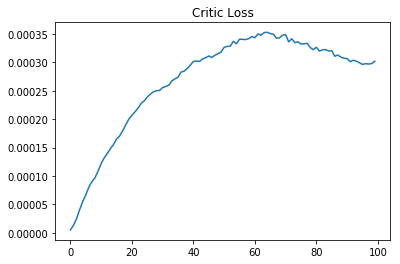
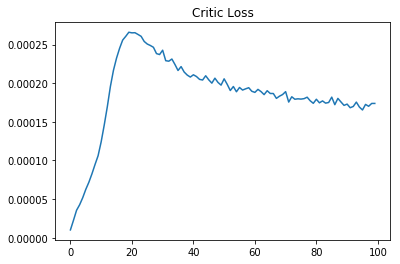
changed learning rate

diff --git a/report.md b/report.md
@@ -1,54 +1,50 @@
 # Implementation Details
-In general the code is an implementation of the [DDPG Paper](https://arxiv.org/pdf/1509.02971.pdf), but I made some minor adjustments to make it work in the reacher environment. 
-Take a look at **Section 3: Algorithm** and **Section 7: Experiment Details**. 
+In general the code is an implementation of the [DDPG Paper](https://arxiv.org/pdf/1509.02971.pdf), but I made some minor adjustments to make it work in the reacher environment.
+Take a look at **Section 3: Algorithm** and **Section 7: Experiment Details**.
 
 ## The Basic DDPG Algorithm
 ![DDPG Algorithm](ddpg-algorithm.png)
 
 ## Network Architecture
 I used the same network architecture, but used only 128 hidden units for both hidden layers in the actor and critic network.
-I reduced the number of hidden units, because 128 hidden units had enough capacity to solve the environment and the smaller the network, the faster it trains. 
-I tried batch normalization as stated in the paper, but I could not benefit from it. In fact it made the training performance even worse. 
-Hence I decided, to not use it. 
-The rest of the network architecture is identical to the one in the paper. 
+I reduced the number of hidden units, because 128 hidden units had enough capacity to solve the environment and the smaller the network, the faster it trains.
+I tried batch normalization as stated in the paper, but I could not benefit from it. In fact it made the training performance even worse.
+Hence I decided, to not use it.
+The rest of the network architecture is identical to the one in the paper.
 
-## Trick One: Replay Buffer 
+## Trick One: Replay Buffer
 I make use of a replay buffer to decorrelate the experiences. Otherwise, the correlation could lead the agent to diverge.
-Similar to the paper I use a replay capacity of 10^6. 
+Similar to the paper I use a replay capacity of 10^6.
 
 ## Trick Two: Target Networks
-To decorrelate the targets from the predictions, I use target networks for the actor and the critic. 
-This prevents the networks to diverge, as well. As stated in the paper, I update the target networks softly. 
+To decorrelate the targets from the predictions, I use target networks for the actor and the critic.
+This prevents the networks to diverge, as well. As stated in the paper, I update the target networks softly.
 
 ## Stochastic Gradient Descent
-For both networks I use the Adam optimizer. In contrast to the paper I use a learning rate of 0.001 for both optimizers and no weight decay for the critic. 
-In the paper they used a batch size of 64. But to use more parallel compute capacity, I increased it to 256. 
+For both networks I use the Adam optimizer. I used a learning rate of 0.001 for the actor and 0.0001 for the critic. It was crucial for the training speed to set the learning rate of the critic lower than the learning rate of the actor.  In contrast to the paper I used no weight decay for the critic.
+In the paper they used a batch size of 64. But to use more parallel compute capacity, I increased it to 256.
 Additionaly it turned out that updating the networks 10 times after 20 steps was more efficient than updating the networks after each step.
 
 ## Exploration - Exploitation
-As the name says Deep Deterministic Policy Gradient uses a deterministic policy. However, to not get stuck in a local maximum we want the policy to explore a lot in the beginning and exploit more and more as time goes by. 
-In order to do that, we have to make the policy stochastic. To archive that, I added some gaussian noise to the actions and decreased the standard deviation exponentially to a minimum of 0.01. 
-In the paper they used the Ornstein-Uhlenbeck Process to generate timely correlated noise. 
-However, this process is pretty complex and since gaussian noise works as well, I thought that an ou-process is overkill. 
+As the name says Deep Deterministic Policy Gradient uses a deterministic policy. However, to not get stuck in a local maximum we want the policy to explore a lot in the beginning and exploit more and more as time goes by.
+In order to do that, we have to make the policy stochastic. To archive that, I added some gaussian noise to the actions and decreased the standard deviation exponentially to a minimum of 0.01.
+In the paper they used the Ornstein-Uhlenbeck Process to generate timely correlated noise.
+However, this process is pretty complex and since gaussian noise works as well, I thought that an ou-process is overkill.
 
 ## Evaluation
 
 ![Score](score_reacher.png)
 
-This plot shows the average score over 10 episodes. The x-axis describes the number of episodes in steps of ten. So 20 means 200 episodes. 
-As we can see the environment is solved after 600 episodes. However, it took not to much time, because the network gets updated only 10 times after 20 steps.
-The plot also shows, that the score converges to a limit of 39. 
+This plot shows the average score over 10 episodes. The x-axis describes the number of episodes in steps of ten. So 20 means 200 episodes.
+As we can see the environment is solved after 300 episodes. However, it took not to much time, because the network gets updated only 10 times after 20 steps.
+The plot also shows, that the score converges to a limit of 39.
 
 ![Score-Actor](score_actor.png)
 
-This plot shows the average score of the actor over 10 episodes. 
-We can see that the actor gets better and better faster and faster until it slows down after about 600 episodes when the environment is solved. 
+This plot shows the average score of the actor over 10 episodes.
+We can see that the actor gets better and better faster and faster until it slows down after about 300 episodes when the environment is solved.
 
 ![Loss-Critic](loss_critic.png)
 
-This plot shows the average loss of the critic over 10 episodes. 
-We can see, that the loss increases until the environment is solved at about 600 episodes and after that decreases. 
-
-
-
-
+This plot shows the average loss of the critic over 10 episodes.
+We can see, that the loss increases until the environment is solved at about 300 episodes and after that decreases.
